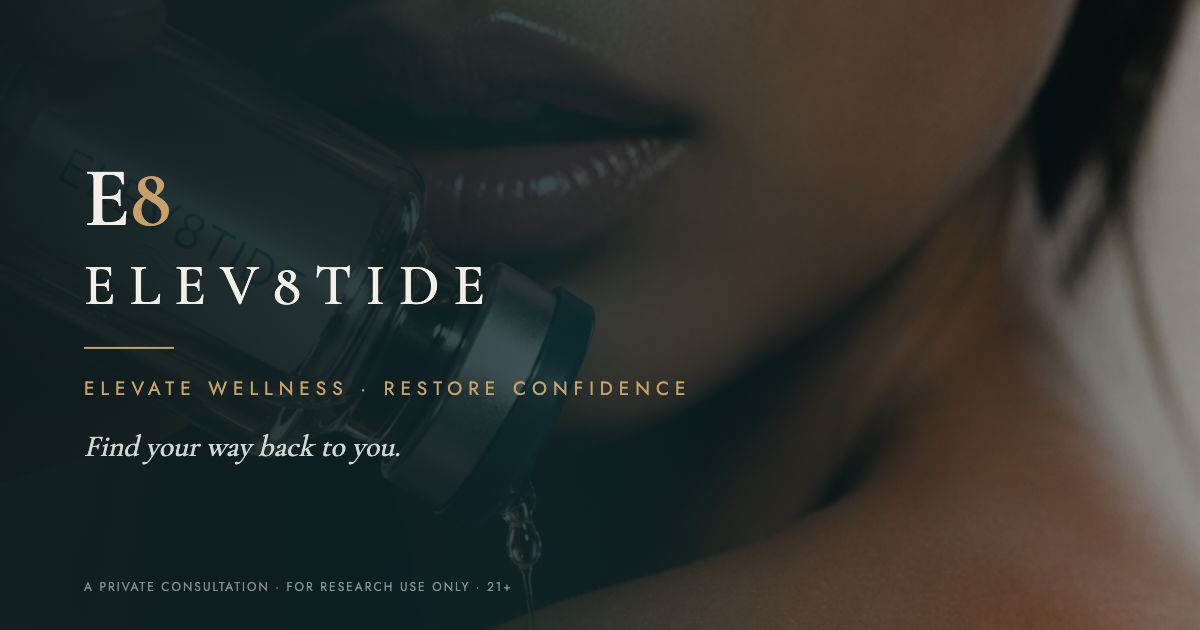
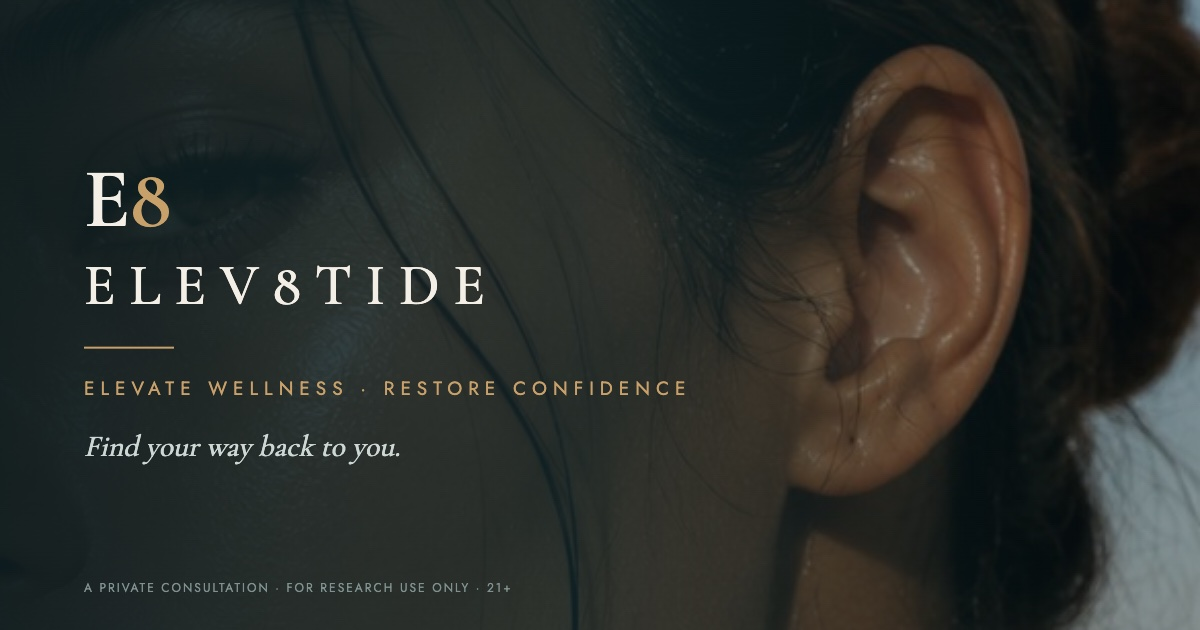
Share card (OG image) → lifestyle face, remove product vial

diff --git a/og.html b/og.html
@@ -1,0 +1,28 @@
+<!doctype html><html><head><meta charset="utf-8">
+<style>
+@import url('https://fonts.googleapis.com/css2?family=Cormorant+Garamond:wght@500;600&family=Jost:wght@300;400&display=swap');
+*{margin:0;padding:0;box-sizing:border-box}
+.card{width:1200px;height:630px;position:relative;overflow:hidden;font-family:'Jost',sans-serif;
+  background:linear-gradient(90deg,rgba(14,28,31,.96) 0%,rgba(16,40,44,.78) 48%,rgba(16,40,44,.20) 100%),
+  url('img/hero_face.jpg') right 22%/cover}
+.wrap{position:absolute;left:84px;top:50%;transform:translateY(-50%);color:#F4EFE6;max-width:620px}
+.e8{font-family:'Cormorant Garamond',serif;font-weight:600;font-size:84px;line-height:.8;color:#F4EFE6}
+.e8 b{color:#C8A06A;font-weight:600}
+.wm{font-family:'Cormorant Garamond',serif;font-size:58px;letter-spacing:14px;color:#F4EFE6;margin-top:18px}
+.rule{width:90px;height:2px;background:#C8A06A;margin:26px 0}
+.tag{font-size:19px;letter-spacing:6px;color:#C8A06A;text-transform:uppercase}
+.sub{font-family:'Cormorant Garamond',serif;font-style:italic;font-size:30px;color:#cdd8d5;margin-top:26px}
+.disc{position:absolute;bottom:34px;left:84px;font-size:12px;letter-spacing:2px;color:#7f928f;text-transform:uppercase}
+</style></head>
+<body>
+<div class="card">
+  <div class="wrap">
+    <div class="e8">E<b>8</b></div>
+    <div class="wm">ELEV8TIDE</div>
+    <div class="rule"></div>
+    <div class="tag">Elevate Wellness · Restore Confidence</div>
+    <div class="sub">Find your way back to you.</div>
+  </div>
+  <div class="disc">A Private Consultation · For Research Use Only · 21+</div>
+</div>
+</body></html>
